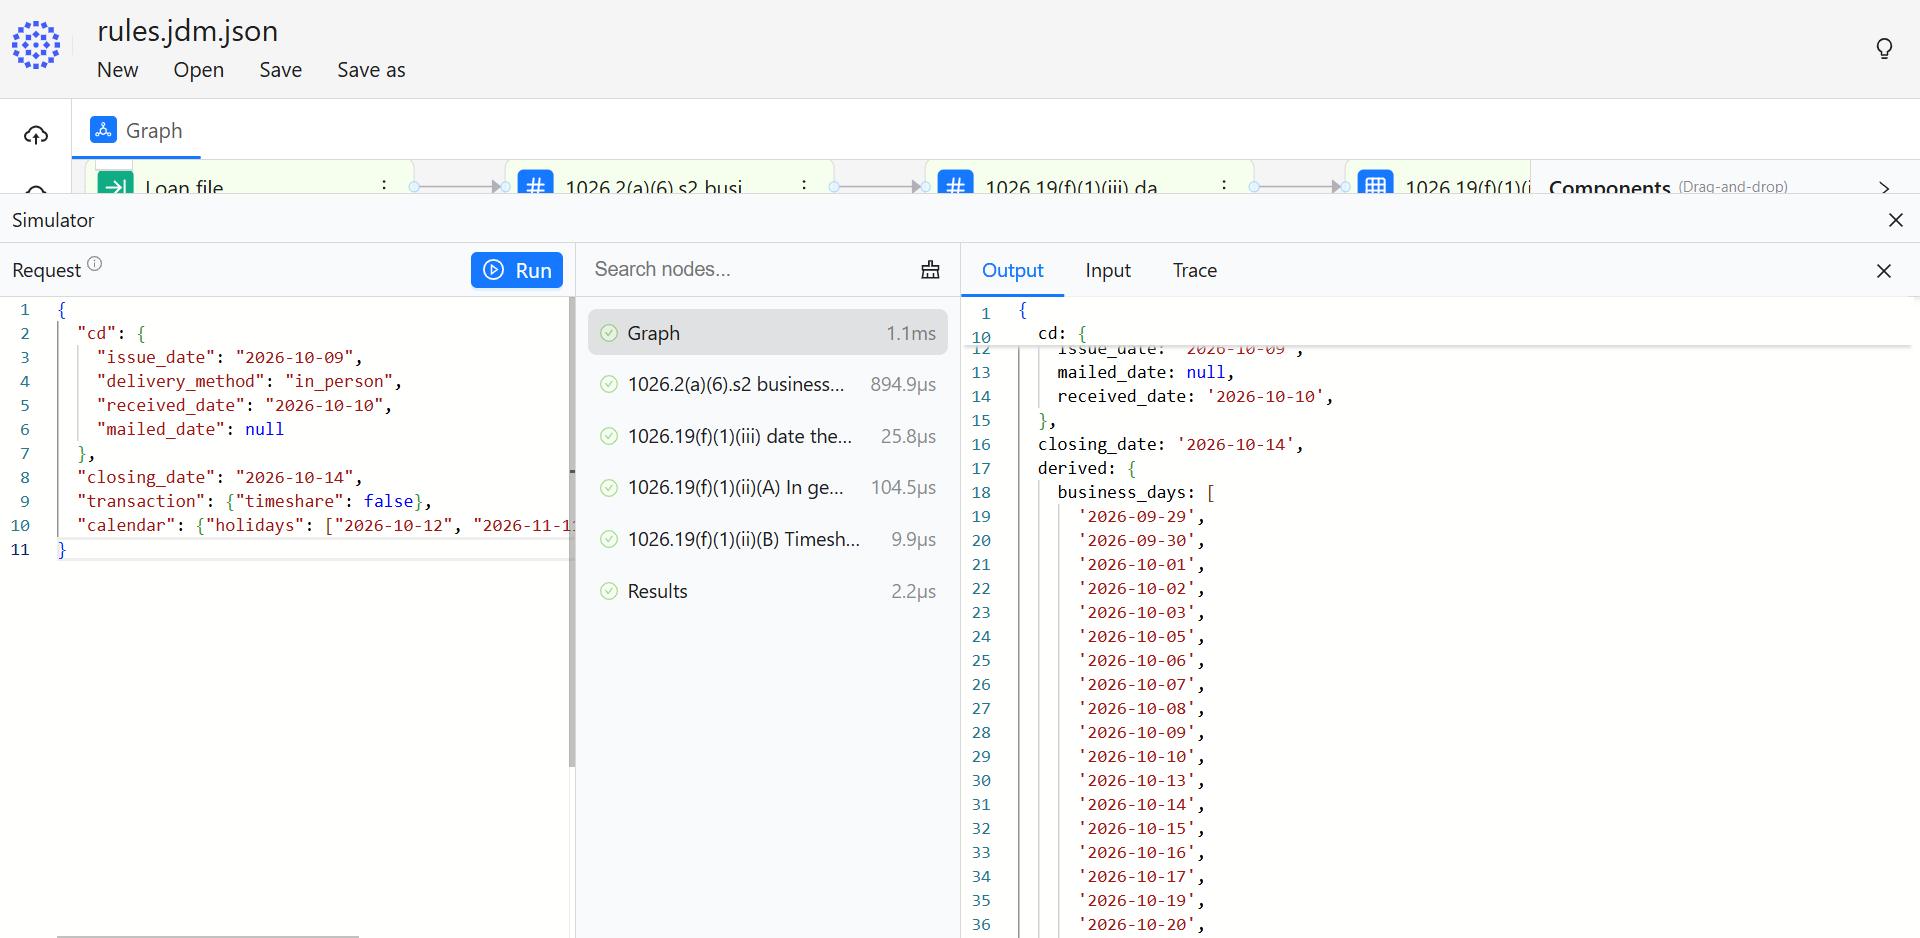
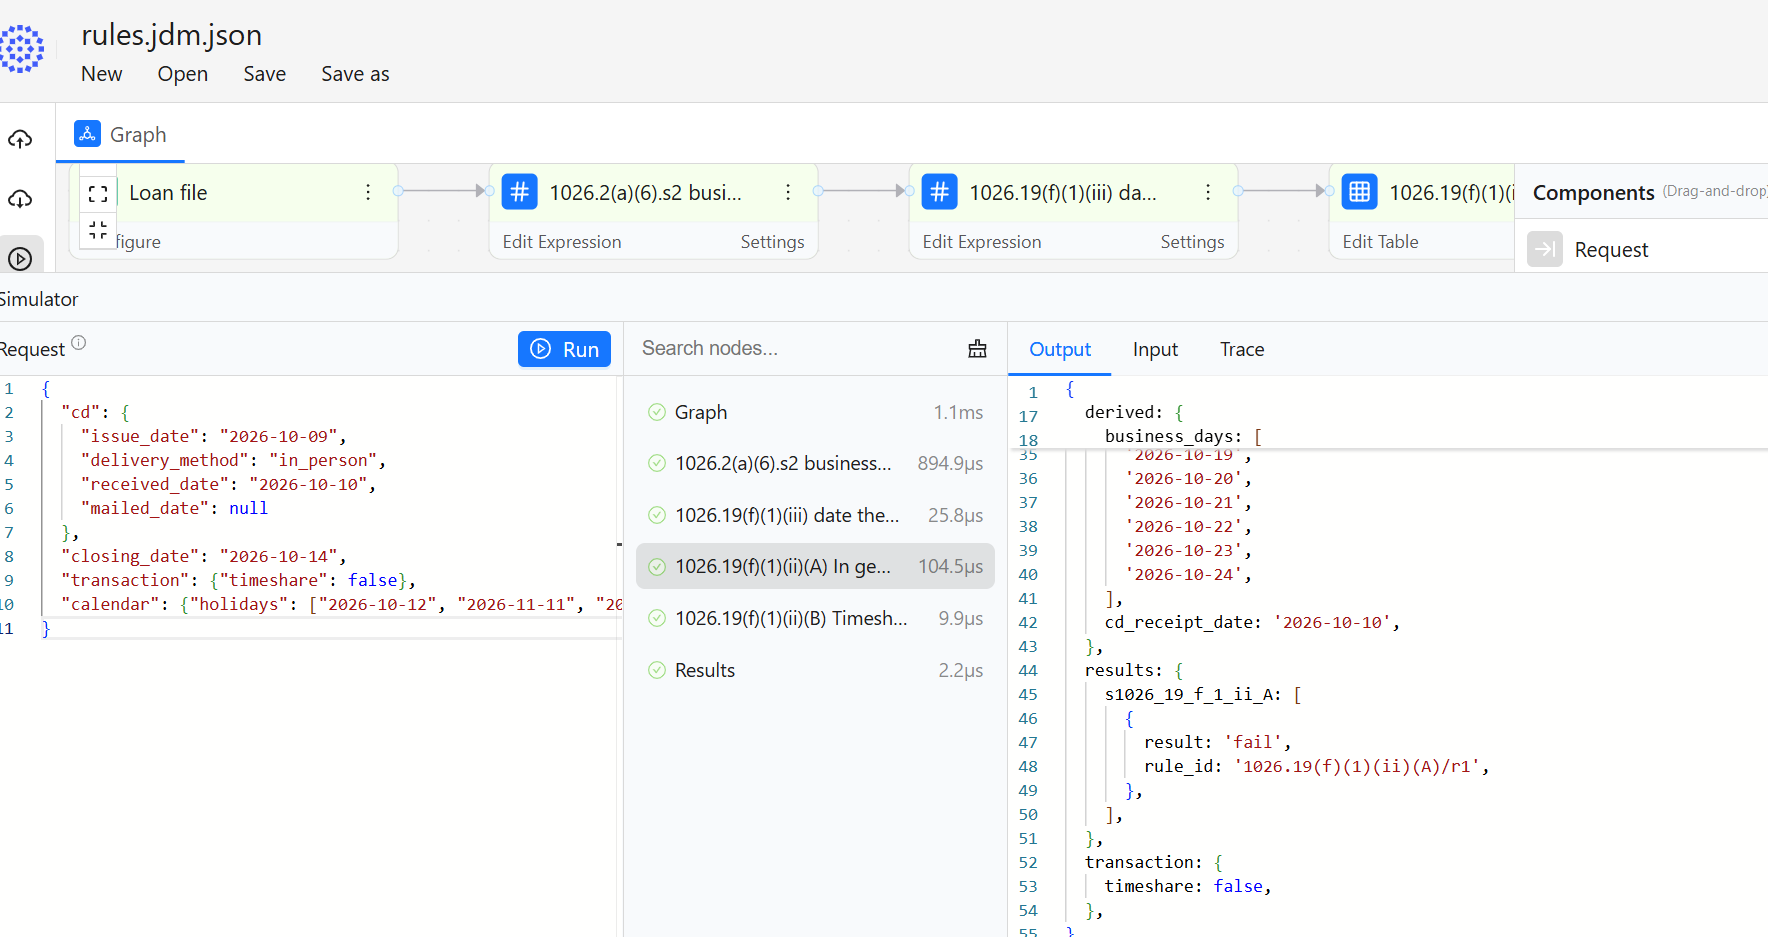
README: editor screenshot with the fail result in view

diff --git a/README.md b/README.md
@@ -63,11 +63,11 @@ This prints a `fail` for `1026.19(f)(1)(ii)(A)/r1` and an empty list for the tim
 
 1. Open https://editor.gorules.io and open `out/pack/rules.jdm.json`.
 2. Open the simulator and paste the `input` object of a fixture, for example `fixtures/trid-19f/cd-received-saturday-closing-after-columbus-day.json`.
-3. Run. All nodes evaluate. For the Columbus Day fixture the result has `derived.cd_receipt_date` `"2026-10-10"`, `results.s1026_19_f_1_ii_A` `[{"rule_id": "1026.19(f)(1)(ii)(A)/r1", "result": "fail"}]` and `results.s1026_19_f_1_ii_B` `[]`.
+3. Run. All nodes evaluate. For the Columbus Day fixture the result has `derived.cd_receipt_date` `"2026-10-10"`, `results.s1026_19_f_1_ii_A` `[{"rule_id": "1026.19(f)(1)(ii)(A)/r1", "result": "fail"}]`. The timeshare table matches no row; the editor leaves its key out of `results`, where the Python SDK returns an empty list.
 
-![The pack in the GoRules editor simulator: the Columbus Day fixture as nested input, every node evaluated, and the business-day list without Sunday 2026-10-11 and Columbus Day 2026-10-12](docs/editor-simulator.png)
+![The pack in the GoRules editor simulator: the Columbus Day fixture as nested input, every node evaluated, receipt date 2026-10-10 and a fail from rule 1026.19(f)(1)(ii)(A)/r1](docs/editor-simulator.png)
 
-*editor.gorules.io, 2026-10-08: the Columbus Day fixture. Every node evaluated; the output starts with the derived business days, which skip Sunday 2026-10-11 and Columbus Day 2026-10-12.*
+*editor.gorules.io, 2026-10-08: the Columbus Day fixture. Every node evaluated. The output shows the receipt date 2026-10-10 and a fail from rule 1026.19(f)(1)(ii)(A)/r1.*
 
 ## Using this pack
 
